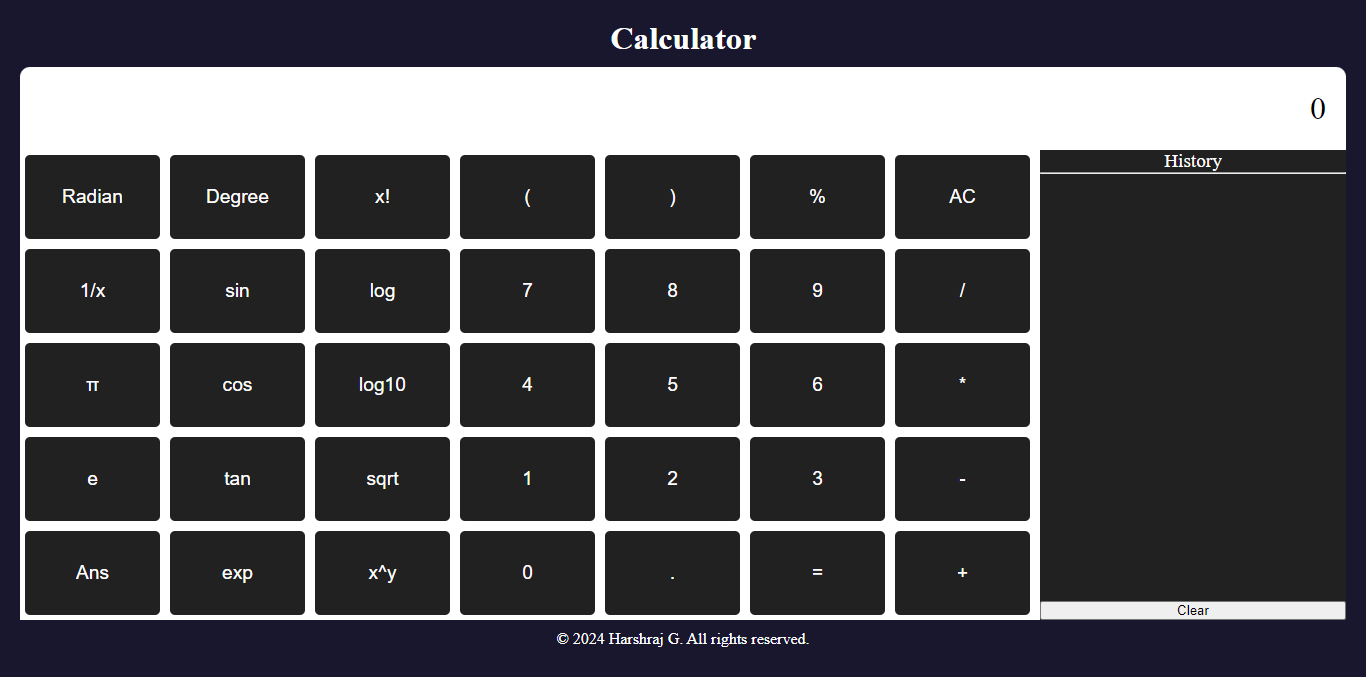
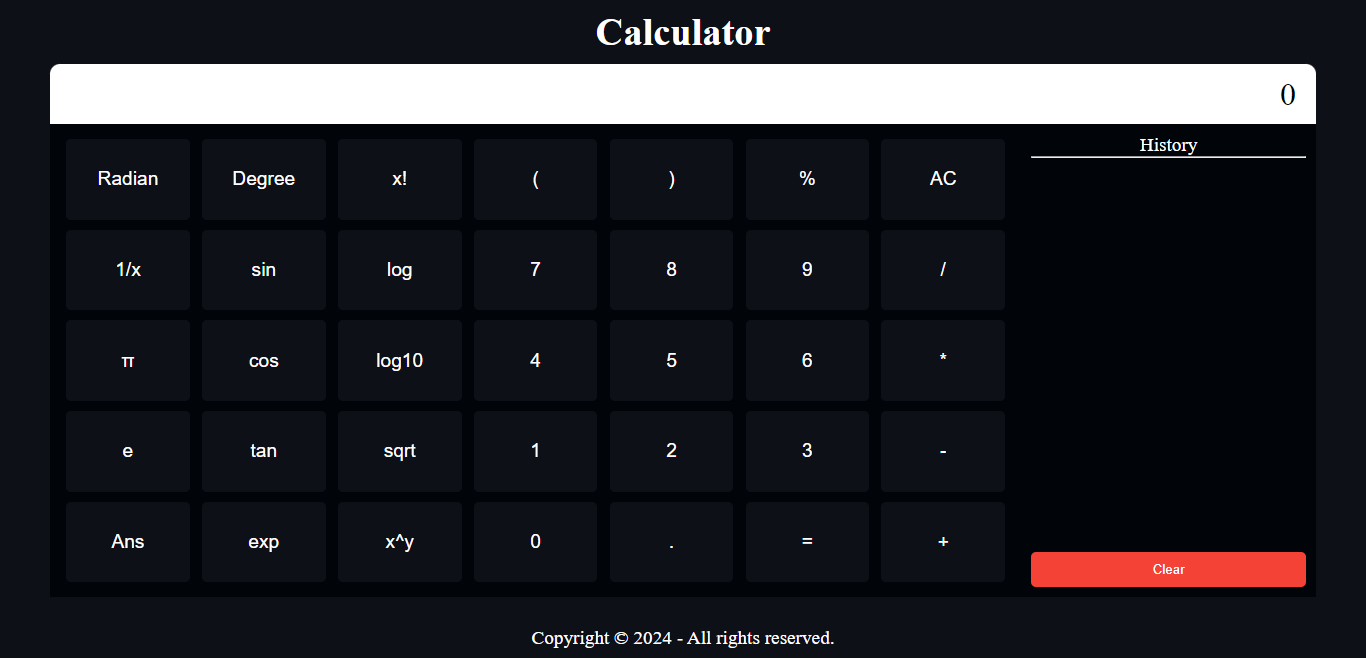
Add files via upload

diff --git a/TASK_02/style.css b/TASK_02/style.css
@@ -6,26 +6,29 @@
 
 body {
   font-family: "Times New Roman", Times, serif;
-  background-color: #282a36;
+  background-color: #0D1117; 
   color: #fff;
   display: flex;
   flex-direction: column;
   justify-content: center;
   align-items: center;
-  height: 100%;
+  height: 100%; 
 }
 
 header,
 footer {
   font-size: 1.2rem;
   text-align: center;
+  margin: 10px;
 }
+
 
 main {
   display: flex;
   flex-direction: column;
   height: 85vh;
-  padding: 20px;
+  width: 100%;
+  padding: 0 50px 0 50px;
 }
 
 .top-panel {
@@ -51,17 +54,17 @@ main {
   flex-wrap: wrap;
   justify-content: space-around;
   width: 100%;
-  background-color: #1e1e1e;
+  background-color: #010409;
   padding: 10px;
   overflow: auto;
 }
 
 .button {
-  width: 120px;
+  width: 13%;
   margin: 5px;
   padding: 15px 0;
   font-size: 1.2rem;
-  background-color: #212121;
+  background-color: #0D1117;
   border: 2px solid transparent;
   border-radius: 5px;
   cursor: pointer;
@@ -77,7 +80,7 @@ main {
   display: flex;
   flex-direction: column;
   width:30%;
-  background-color: #212121;
+  background-color: #010409;
   font-size: 1.2rem;
   color: #fff;
   padding: 10px;
@@ -104,13 +107,9 @@ main {
 
 /* Media Query for Mobile Devices */
 @media (max-width: 768px) {
-  main {
-    flex-direction: column;
-  }
 
   .bottom-panel {
     flex-direction: column;
-    height: auto;
   }
 
   .button {

diff --git a/TASK_02/index.html b/TASK_02/index.html
@@ -62,9 +62,7 @@
       </div>
     </main>
 
-    <footer>
-      <p>Copyright &copy; 2024 - All rights reserved.<br /></p>
-    </footer>
+    <footer>Copyright &copy; 2024 - All rights reserved.</footer>
 
     <script src="https://cdnjs.cloudflare.com/ajax/libs/mathjs/10.2.0/math.js"></script>
     <script src="script.js"></script>

diff --git a/TASK_02/script.js b/TASK_02/script.js
@@ -10,8 +10,6 @@ function factorial(number) {
       return number * factorial(number - 1);
   }
 }
-
-// Function to append text to the display
 function appendText(text) {
   if (display.textContent === '0' || display.textContent === 'Error') {
     display.textContent = '';
